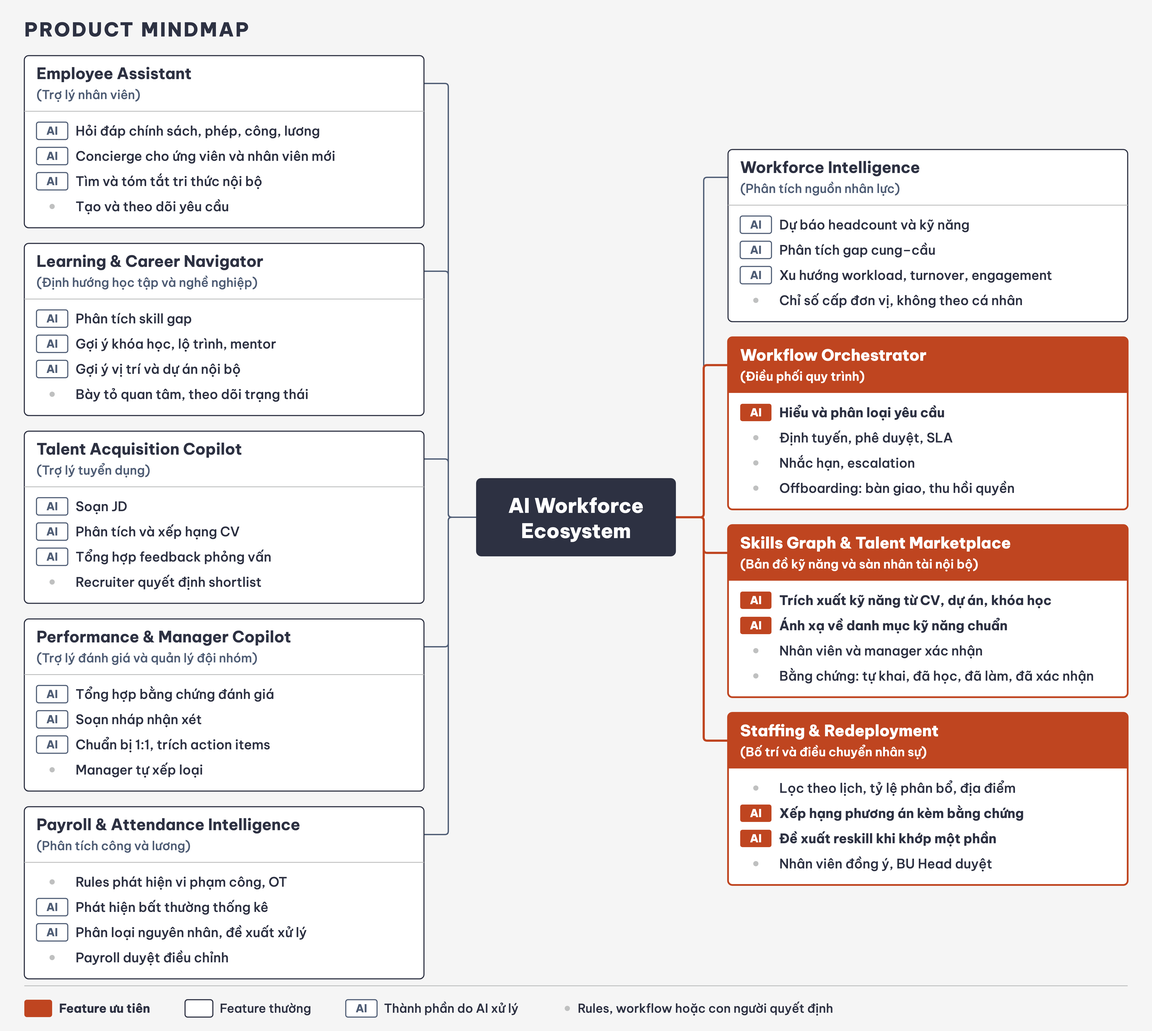
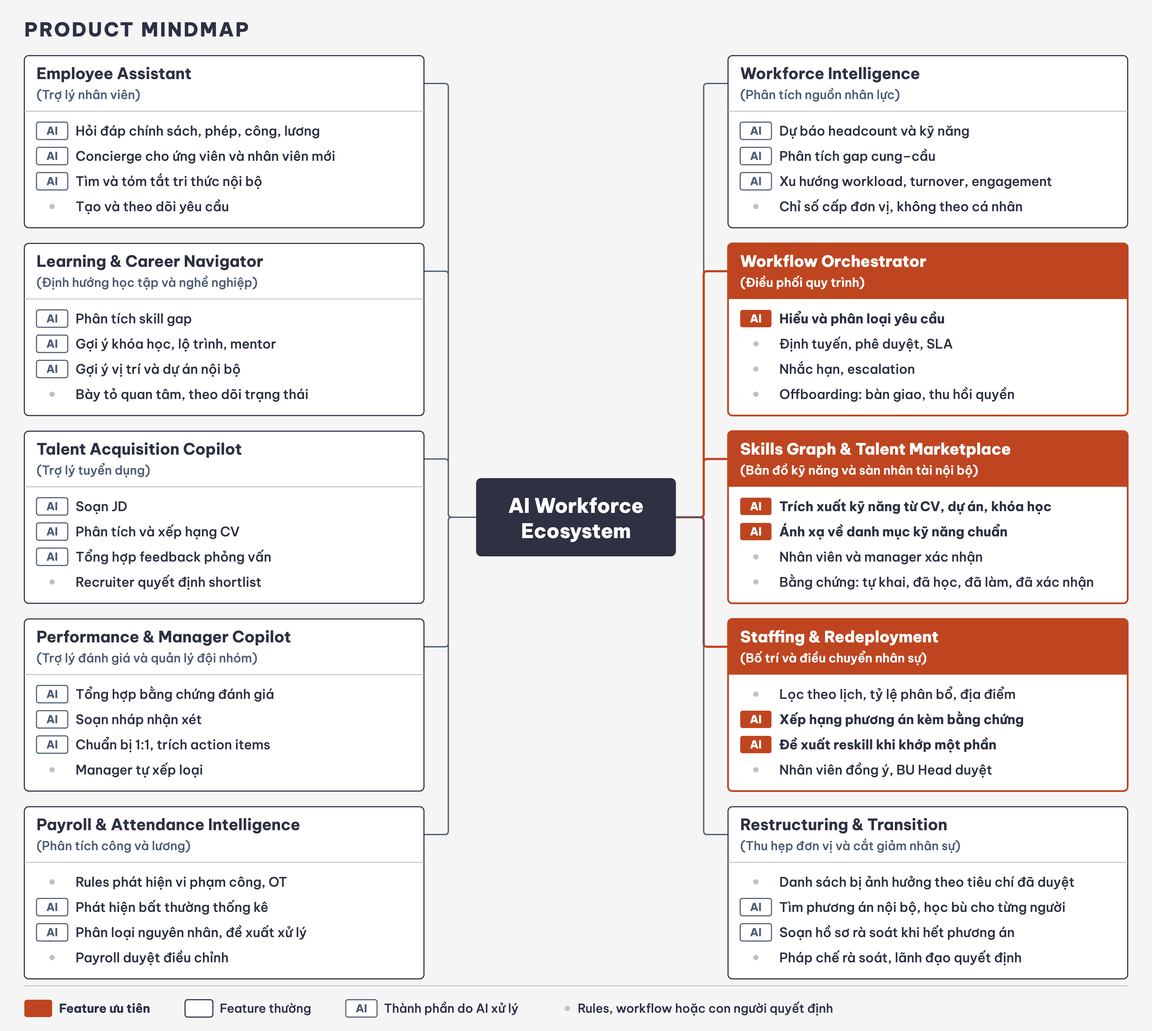
feat: Implement restructuring feature for workforce management
- Added new use case (UC-16) for restructuring and layoffs in README.md.
- Updated app logic to handle employee redeployment and reskilling processes.
- Introduced affected personnel data structure to manage impacted employees.
- Enhanced UI to display restructuring options and statuses.
- Updated model to include restructuring state transitions and validation.
- Added tests for restructuring scenarios to ensure correct workflow.
- Improved styling for new UI elements related to restructuring.

Changed region(s): [[0.6222, 0.0624, 0.9955, 0.9359]]

diff --git a/docs/02-product-mindmap/Product_Mindmap.html b/docs/02-product-mindmap/Product_Mindmap.html
@@ -18,7 +18,7 @@ svg text { font-family: 'Be Vietnam Pro', system-ui, sans-serif; }
 <div class="diagram-container">
 <svg viewBox="0 0 2652 2372" xmlns="http://www.w3.org/2000/svg" role="img" aria-labelledby="product-mindmap-title product-mindmap-desc">
 <title id="product-mindmap-title">Product mindmap: AI Workforce Ecosystem</title>
-<desc id="product-mindmap-desc">Chín feature của AI Workforce Ecosystem cùng các thành phần, trong đó ba feature ưu tiên được tô nổi bật.</desc>
+<desc id="product-mindmap-desc">Mười feature của AI Workforce Ecosystem cùng các thành phần, trong đó ba feature ưu tiên được tô nổi bật.</desc>
 <rect width="2652" height="2372" fill="#f5f5f5"/>
 <text x="56" y="84" font-size="44" font-weight="800" letter-spacing="4" fill="#2d3142">PRODUCT MINDMAP</text>
 <path d="M1096.0,1190.0 H1040.0 Q1032.0,1190.0 1032.0,1182.0 V200.0 Q1032.0,192.0 1024.0,192.0 H976.0" fill="none" stroke="#4f5d75" stroke-width="3"/>
@@ -26,10 +26,11 @@ svg text { font-family: 'Be Vietnam Pro', system-ui, sans-serif; }
 <path d="M1096.0,1190.0 H1040.0 Q1032.0,1190.0 1032.0,1182.0 V1064.0 Q1032.0,1056.0 1024.0,1056.0 H976.0" fill="none" stroke="#4f5d75" stroke-width="3"/>
 <path d="M1096.0,1190.0 H1040.0 Q1032.0,1190.0 1032.0,1198.0 V1480.0 Q1032.0,1488.0 1024.0,1488.0 H976.0" fill="none" stroke="#4f5d75" stroke-width="3"/>
 <path d="M1096.0,1190.0 H1040.0 Q1032.0,1190.0 1032.0,1198.0 V1912.0 Q1032.0,1920.0 1024.0,1920.0 H976.0" fill="none" stroke="#4f5d75" stroke-width="3"/>
-<path d="M1556.0,1190.0 H1612.0 Q1620.0,1190.0 1620.0,1182.0 V416.0 Q1620.0,408.0 1628.0,408.0 H1676.0" fill="none" stroke="#4f5d75" stroke-width="3"/>
-<path d="M1556.0,1190.0 H1612.0 Q1620.0,1190.0 1620.0,1182.0 V848.0 Q1620.0,840.0 1628.0,840.0 H1676.0" fill="none" stroke="#bf4520" stroke-width="5"/>
-<path d="M1556.0,1190.0 H1612.0 Q1620.0,1190.0 1620.0,1198.0 V1264.0 Q1620.0,1272.0 1628.0,1272.0 H1676.0" fill="none" stroke="#bf4520" stroke-width="5"/>
-<path d="M1556.0,1190.0 H1612.0 Q1620.0,1190.0 1620.0,1198.0 V1696.0 Q1620.0,1704.0 1628.0,1704.0 H1676.0" fill="none" stroke="#bf4520" stroke-width="5"/>
+<path d="M1556.0,1190.0 H1612.0 Q1620.0,1190.0 1620.0,1182.0 V200.0 Q1620.0,192.0 1628.0,192.0 H1676.0" fill="none" stroke="#4f5d75" stroke-width="3"/>
+<path d="M1556.0,1190.0 H1612.0 Q1620.0,1190.0 1620.0,1182.0 V632.0 Q1620.0,624.0 1628.0,624.0 H1676.0" fill="none" stroke="#bf4520" stroke-width="5"/>
+<path d="M1556.0,1190.0 H1612.0 Q1620.0,1190.0 1620.0,1182.0 V1064.0 Q1620.0,1056.0 1628.0,1056.0 H1676.0" fill="none" stroke="#bf4520" stroke-width="5"/>
+<path d="M1556.0,1190.0 H1612.0 Q1620.0,1190.0 1620.0,1198.0 V1480.0 Q1620.0,1488.0 1628.0,1488.0 H1676.0" fill="none" stroke="#bf4520" stroke-width="5"/>
+<path d="M1556.0,1190.0 H1612.0 Q1620.0,1190.0 1620.0,1198.0 V1912.0 Q1620.0,1920.0 1628.0,1920.0 H1676.0" fill="none" stroke="#4f5d75" stroke-width="3"/>
 <rect x="56.0" y="128.0" width="920" height="396" rx="10" fill="#ffffff" stroke="#2d3142" stroke-width="2.5"/>
 <line x1="56.0" y1="256.0" x2="976.0" y2="256.0" stroke="#bfc0c0" stroke-width="2"/>
 <text x="84.0" y="182.0" font-size="36" font-weight="700" fill="#2d3142">Employee Assistant</text>
@@ -104,62 +105,76 @@ svg text { font-family: 'Be Vietnam Pro', system-ui, sans-serif; }
 <text x="174.0" y="2156.0" font-size="30" font-weight="500" fill="#2d3142">Phân loại nguyên nhân, đề xuất xử lý</text>
 <circle cx="120.0" cy="2203.0" r="6" fill="#bfc0c0"/>
 <text x="174.0" y="2214.0" font-size="30" font-weight="500" fill="#2d3142">Payroll duyệt điều chỉnh</text>
-<rect x="1676.0" y="344.0" width="920" height="396" rx="10" fill="#ffffff" stroke="#2d3142" stroke-width="2.5"/>
-<line x1="1676.0" y1="472.0" x2="2596.0" y2="472.0" stroke="#bfc0c0" stroke-width="2"/>
-<text x="1704.0" y="398.0" font-size="36" font-weight="700" fill="#2d3142">Workforce Intelligence</text>
-<text x="1704.0" y="444.0" font-size="28" font-weight="500" fill="#4f5d75">(Phân tích nguồn nhân lực)</text>
-<rect x="1704.0" y="497.0" width="72" height="40" rx="5" fill="#ffffff" stroke="#4f5d75" stroke-width="2.5"/>
-<text x="1740.0" y="526.0" text-anchor="middle" font-size="25" font-weight="700" fill="#4f5d75">AI</text>
-<text x="1794.0" y="528.0" font-size="30" font-weight="500" fill="#2d3142">Dự báo headcount và kỹ năng</text>
-<rect x="1704.0" y="555.0" width="72" height="40" rx="5" fill="#ffffff" stroke="#4f5d75" stroke-width="2.5"/>
-<text x="1740.0" y="584.0" text-anchor="middle" font-size="25" font-weight="700" fill="#4f5d75">AI</text>
-<text x="1794.0" y="586.0" font-size="30" font-weight="500" fill="#2d3142">Phân tích gap cung–cầu</text>
-<rect x="1704.0" y="613.0" width="72" height="40" rx="5" fill="#ffffff" stroke="#4f5d75" stroke-width="2.5"/>
-<text x="1740.0" y="642.0" text-anchor="middle" font-size="25" font-weight="700" fill="#4f5d75">AI</text>
-<text x="1794.0" y="644.0" font-size="30" font-weight="500" fill="#2d3142">Xu hướng workload, turnover, engagement</text>
-<circle cx="1740.0" cy="691.0" r="6" fill="#bfc0c0"/>
-<text x="1794.0" y="702.0" font-size="30" font-weight="500" fill="#2d3142">Chỉ số cấp đơn vị, không theo cá nhân</text>
-<rect x="1676.0" y="776.0" width="920" height="396" rx="10" fill="#ffffff" stroke="#bf4520" stroke-width="4"/>
-<path d="M1676.0,904.0 V786.0 Q1676.0,776.0 1686.0,776.0 H2586.0 Q2596.0,776.0 2596.0,786.0 V904.0 Z" fill="#bf4520"/>
-<text x="1704.0" y="830.0" font-size="36" font-weight="800" fill="#ffffff">Workflow Orchestrator</text>
-<text x="1704.0" y="876.0" font-size="28" font-weight="600" fill="#ffffff">(Điều phối quy trình)</text>
-<rect x="1704.0" y="929.0" width="72" height="40" rx="5" fill="#bf4520"/>
-<text x="1740.0" y="958.0" text-anchor="middle" font-size="25" font-weight="800" fill="#ffffff">AI</text>
-<text x="1794.0" y="960.0" font-size="30" font-weight="700" fill="#2d3142">Hiểu và phân loại yêu cầu</text>
-<circle cx="1740.0" cy="1007.0" r="6" fill="#bfc0c0"/>
-<text x="1794.0" y="1018.0" font-size="30" font-weight="500" fill="#2d3142">Định tuyến, phê duyệt, SLA</text>
-<circle cx="1740.0" cy="1065.0" r="6" fill="#bfc0c0"/>
-<text x="1794.0" y="1076.0" font-size="30" font-weight="500" fill="#2d3142">Nhắc hạn, escalation</text>
-<circle cx="1740.0" cy="1123.0" r="6" fill="#bfc0c0"/>
-<text x="1794.0" y="1134.0" font-size="30" font-weight="500" fill="#2d3142">Offboarding: bàn giao, thu hồi quyền</text>
-<rect x="1676.0" y="1208.0" width="920" height="396" rx="10" fill="#ffffff" stroke="#bf4520" stroke-width="4"/>
-<path d="M1676.0,1336.0 V1218.0 Q1676.0,1208.0 1686.0,1208.0 H2586.0 Q2596.0,1208.0 2596.0,1218.0 V1336.0 Z" fill="#bf4520"/>
-<text x="1704.0" y="1262.0" font-size="36" font-weight="800" fill="#ffffff">Skills Graph &amp; Talent Marketplace</text>
-<text x="1704.0" y="1308.0" font-size="28" font-weight="600" fill="#ffffff">(Bản đồ kỹ năng và sàn nhân tài nội bộ)</text>
-<rect x="1704.0" y="1361.0" width="72" height="40" rx="5" fill="#bf4520"/>
-<text x="1740.0" y="1390.0" text-anchor="middle" font-size="25" font-weight="800" fill="#ffffff">AI</text>
-<text x="1794.0" y="1392.0" font-size="30" font-weight="700" fill="#2d3142">Trích xuất kỹ năng từ CV, dự án, khóa học</text>
-<rect x="1704.0" y="1419.0" width="72" height="40" rx="5" fill="#bf4520"/>
-<text x="1740.0" y="1448.0" text-anchor="middle" font-size="25" font-weight="800" fill="#ffffff">AI</text>
-<text x="1794.0" y="1450.0" font-size="30" font-weight="700" fill="#2d3142">Ánh xạ về danh mục kỹ năng chuẩn</text>
-<circle cx="1740.0" cy="1497.0" r="6" fill="#bfc0c0"/>
-<text x="1794.0" y="1508.0" font-size="30" font-weight="500" fill="#2d3142">Nhân viên và manager xác nhận</text>
-<circle cx="1740.0" cy="1555.0" r="6" fill="#bfc0c0"/>
-<text x="1794.0" y="1566.0" font-size="30" font-weight="500" fill="#2d3142">Bằng chứng: tự khai, đã học, đã làm, đã xác nhận</text>
-<rect x="1676.0" y="1640.0" width="920" height="396" rx="10" fill="#ffffff" stroke="#bf4520" stroke-width="4"/>
-<path d="M1676.0,1768.0 V1650.0 Q1676.0,1640.0 1686.0,1640.0 H2586.0 Q2596.0,1640.0 2596.0,1650.0 V1768.0 Z" fill="#bf4520"/>
-<text x="1704.0" y="1694.0" font-size="36" font-weight="800" fill="#ffffff">Staffing &amp; Redeployment</text>
-<text x="1704.0" y="1740.0" font-size="28" font-weight="600" fill="#ffffff">(Bố trí và điều chuyển nhân sự)</text>
-<circle cx="1740.0" cy="1813.0" r="6" fill="#bfc0c0"/>
-<text x="1794.0" y="1824.0" font-size="30" font-weight="500" fill="#2d3142">Lọc theo lịch, tỷ lệ phân bổ, địa điểm</text>
-<rect x="1704.0" y="1851.0" width="72" height="40" rx="5" fill="#bf4520"/>
-<text x="1740.0" y="1880.0" text-anchor="middle" font-size="25" font-weight="800" fill="#ffffff">AI</text>
-<text x="1794.0" y="1882.0" font-size="30" font-weight="700" fill="#2d3142">Xếp hạng phương án kèm bằng chứng</text>
-<rect x="1704.0" y="1909.0" width="72" height="40" rx="5" fill="#bf4520"/>
-<text x="1740.0" y="1938.0" text-anchor="middle" font-size="25" font-weight="800" fill="#ffffff">AI</text>
-<text x="1794.0" y="1940.0" font-size="30" font-weight="700" fill="#2d3142">Đề xuất reskill khi khớp một phần</text>
-<circle cx="1740.0" cy="1987.0" r="6" fill="#bfc0c0"/>
-<text x="1794.0" y="1998.0" font-size="30" font-weight="500" fill="#2d3142">Nhân viên đồng ý, BU Head duyệt</text>
+<rect x="1676.0" y="128.0" width="920" height="396" rx="10" fill="#ffffff" stroke="#2d3142" stroke-width="2.5"/>
+<line x1="1676.0" y1="256.0" x2="2596.0" y2="256.0" stroke="#bfc0c0" stroke-width="2"/>
+<text x="1704.0" y="182.0" font-size="36" font-weight="700" fill="#2d3142">Workforce Intelligence</text>
+<text x="1704.0" y="228.0" font-size="28" font-weight="500" fill="#4f5d75">(Phân tích nguồn nhân lực)</text>
+<rect x="1704.0" y="281.0" width="72" height="40" rx="5" fill="#ffffff" stroke="#4f5d75" stroke-width="2.5"/>
+<text x="1740.0" y="310.0" text-anchor="middle" font-size="25" font-weight="700" fill="#4f5d75">AI</text>
+<text x="1794.0" y="312.0" font-size="30" font-weight="500" fill="#2d3142">Dự báo headcount và kỹ năng</text>
+<rect x="1704.0" y="339.0" width="72" height="40" rx="5" fill="#ffffff" stroke="#4f5d75" stroke-width="2.5"/>
+<text x="1740.0" y="368.0" text-anchor="middle" font-size="25" font-weight="700" fill="#4f5d75">AI</text>
+<text x="1794.0" y="370.0" font-size="30" font-weight="500" fill="#2d3142">Phân tích gap cung–cầu</text>
+<rect x="1704.0" y="397.0" width="72" height="40" rx="5" fill="#ffffff" stroke="#4f5d75" stroke-width="2.5"/>
+<text x="1740.0" y="426.0" text-anchor="middle" font-size="25" font-weight="700" fill="#4f5d75">AI</text>
+<text x="1794.0" y="428.0" font-size="30" font-weight="500" fill="#2d3142">Xu hướng workload, turnover, engagement</text>
+<circle cx="1740.0" cy="475.0" r="6" fill="#bfc0c0"/>
+<text x="1794.0" y="486.0" font-size="30" font-weight="500" fill="#2d3142">Chỉ số cấp đơn vị, không theo cá nhân</text>
+<rect x="1676.0" y="560.0" width="920" height="396" rx="10" fill="#ffffff" stroke="#bf4520" stroke-width="4"/>
+<path d="M1676.0,688.0 V570.0 Q1676.0,560.0 1686.0,560.0 H2586.0 Q2596.0,560.0 2596.0,570.0 V688.0 Z" fill="#bf4520"/>
+<text x="1704.0" y="614.0" font-size="36" font-weight="800" fill="#ffffff">Workflow Orchestrator</text>
+<text x="1704.0" y="660.0" font-size="28" font-weight="600" fill="#ffffff">(Điều phối quy trình)</text>
+<rect x="1704.0" y="713.0" width="72" height="40" rx="5" fill="#bf4520"/>
+<text x="1740.0" y="742.0" text-anchor="middle" font-size="25" font-weight="800" fill="#ffffff">AI</text>
+<text x="1794.0" y="744.0" font-size="30" font-weight="700" fill="#2d3142">Hiểu và phân loại yêu cầu</text>
+<circle cx="1740.0" cy="791.0" r="6" fill="#bfc0c0"/>
+<text x="1794.0" y="802.0" font-size="30" font-weight="500" fill="#2d3142">Định tuyến, phê duyệt, SLA</text>
+<circle cx="1740.0" cy="849.0" r="6" fill="#bfc0c0"/>
+<text x="1794.0" y="860.0" font-size="30" font-weight="500" fill="#2d3142">Nhắc hạn, escalation</text>
+<circle cx="1740.0" cy="907.0" r="6" fill="#bfc0c0"/>
+<text x="1794.0" y="918.0" font-size="30" font-weight="500" fill="#2d3142">Offboarding: bàn giao, thu hồi quyền</text>
+<rect x="1676.0" y="992.0" width="920" height="396" rx="10" fill="#ffffff" stroke="#bf4520" stroke-width="4"/>
+<path d="M1676.0,1120.0 V1002.0 Q1676.0,992.0 1686.0,992.0 H2586.0 Q2596.0,992.0 2596.0,1002.0 V1120.0 Z" fill="#bf4520"/>
+<text x="1704.0" y="1046.0" font-size="36" font-weight="800" fill="#ffffff">Skills Graph &amp; Talent Marketplace</text>
+<text x="1704.0" y="1092.0" font-size="28" font-weight="600" fill="#ffffff">(Bản đồ kỹ năng và sàn nhân tài nội bộ)</text>
+<rect x="1704.0" y="1145.0" width="72" height="40" rx="5" fill="#bf4520"/>
+<text x="1740.0" y="1174.0" text-anchor="middle" font-size="25" font-weight="800" fill="#ffffff">AI</text>
+<text x="1794.0" y="1176.0" font-size="30" font-weight="700" fill="#2d3142">Trích xuất kỹ năng từ CV, dự án, khóa học</text>
+<rect x="1704.0" y="1203.0" width="72" height="40" rx="5" fill="#bf4520"/>
+<text x="1740.0" y="1232.0" text-anchor="middle" font-size="25" font-weight="800" fill="#ffffff">AI</text>
+<text x="1794.0" y="1234.0" font-size="30" font-weight="700" fill="#2d3142">Ánh xạ về danh mục kỹ năng chuẩn</text>
+<circle cx="1740.0" cy="1281.0" r="6" fill="#bfc0c0"/>
+<text x="1794.0" y="1292.0" font-size="30" font-weight="500" fill="#2d3142">Nhân viên và manager xác nhận</text>
+<circle cx="1740.0" cy="1339.0" r="6" fill="#bfc0c0"/>
+<text x="1794.0" y="1350.0" font-size="30" font-weight="500" fill="#2d3142">Bằng chứng: tự khai, đã học, đã làm, đã xác nhận</text>
+<rect x="1676.0" y="1424.0" width="920" height="396" rx="10" fill="#ffffff" stroke="#bf4520" stroke-width="4"/>
+<path d="M1676.0,1552.0 V1434.0 Q1676.0,1424.0 1686.0,1424.0 H2586.0 Q2596.0,1424.0 2596.0,1434.0 V1552.0 Z" fill="#bf4520"/>
+<text x="1704.0" y="1478.0" font-size="36" font-weight="800" fill="#ffffff">Staffing &amp; Redeployment</text>
+<text x="1704.0" y="1524.0" font-size="28" font-weight="600" fill="#ffffff">(Bố trí và điều chuyển nhân sự)</text>
+<circle cx="1740.0" cy="1597.0" r="6" fill="#bfc0c0"/>
+<text x="1794.0" y="1608.0" font-size="30" font-weight="500" fill="#2d3142">Lọc theo lịch, tỷ lệ phân bổ, địa điểm</text>
+<rect x="1704.0" y="1635.0" width="72" height="40" rx="5" fill="#bf4520"/>
+<text x="1740.0" y="1664.0" text-anchor="middle" font-size="25" font-weight="800" fill="#ffffff">AI</text>
+<text x="1794.0" y="1666.0" font-size="30" font-weight="700" fill="#2d3142">Xếp hạng phương án kèm bằng chứng</text>
+<rect x="1704.0" y="1693.0" width="72" height="40" rx="5" fill="#bf4520"/>
+<text x="1740.0" y="1722.0" text-anchor="middle" font-size="25" font-weight="800" fill="#ffffff">AI</text>
+<text x="1794.0" y="1724.0" font-size="30" font-weight="700" fill="#2d3142">Đề xuất reskill khi khớp một phần</text>
+<circle cx="1740.0" cy="1771.0" r="6" fill="#bfc0c0"/>
+<text x="1794.0" y="1782.0" font-size="30" font-weight="500" fill="#2d3142">Nhân viên đồng ý, BU Head duyệt</text>
+<rect x="1676.0" y="1856.0" width="920" height="396" rx="10" fill="#ffffff" stroke="#2d3142" stroke-width="2.5"/>
+<line x1="1676.0" y1="1984.0" x2="2596.0" y2="1984.0" stroke="#bfc0c0" stroke-width="2"/>
+<text x="1704.0" y="1910.0" font-size="36" font-weight="700" fill="#2d3142">Restructuring &amp; Transition</text>
+<text x="1704.0" y="1956.0" font-size="28" font-weight="500" fill="#4f5d75">(Thu hẹp đơn vị và cắt giảm nhân sự)</text>
+<circle cx="1740.0" cy="2029.0" r="6" fill="#bfc0c0"/>
+<text x="1794.0" y="2040.0" font-size="30" font-weight="500" fill="#2d3142">Danh sách bị ảnh hưởng theo tiêu chí đã duyệt</text>
+<rect x="1704.0" y="2067.0" width="72" height="40" rx="5" fill="#ffffff" stroke="#4f5d75" stroke-width="2.5"/>
+<text x="1740.0" y="2096.0" text-anchor="middle" font-size="25" font-weight="700" fill="#4f5d75">AI</text>
+<text x="1794.0" y="2098.0" font-size="30" font-weight="500" fill="#2d3142">Tìm phương án nội bộ, học bù cho từng người</text>
+<rect x="1704.0" y="2125.0" width="72" height="40" rx="5" fill="#ffffff" stroke="#4f5d75" stroke-width="2.5"/>
+<text x="1740.0" y="2154.0" text-anchor="middle" font-size="25" font-weight="700" fill="#4f5d75">AI</text>
+<text x="1794.0" y="2156.0" font-size="30" font-weight="500" fill="#2d3142">Soạn hồ sơ rà soát khi hết phương án</text>
+<circle cx="1740.0" cy="2203.0" r="6" fill="#bfc0c0"/>
+<text x="1794.0" y="2214.0" font-size="30" font-weight="500" fill="#2d3142">Pháp chế rà soát, lãnh đạo quyết định</text>
 <rect x="1096.0" y="1100.0" width="460" height="180" rx="12" fill="#2d3142"/>
 <text x="1326.0" y="1180.0" text-anchor="middle" font-size="46" font-weight="800" fill="#ffffff">AI Workforce</text>
 <text x="1326.0" y="1238.0" text-anchor="middle" font-size="46" font-weight="800" fill="#ffffff">Ecosystem</text>

diff --git a/prototype/styles.css b/prototype/styles.css
@@ -17,3 +17,4 @@ dialog{border:1px solid #e4e8ee;border-radius:16px;padding:0;box-shadow:0 24px 1
 .tour-inline{display:flex;align-items:flex-start;gap:9px;background:#fff6f8;border:1px solid #f5e4e9;border-radius:8px;padding:10px 12px;margin-bottom:16px;font-size:11px;line-height:1.7}
 .tour-target{outline:2px solid var(--red)!important;outline-offset:3px;border-radius:8px;animation:tour-pulse 1.5s ease-in-out infinite}@keyframes tour-pulse{50%{box-shadow:0 0 0 7px #ea002922}}
 @media(max-width:760px){.tour-panel{right:12px;bottom:12px}.flow-strip{margin-top:0}}@media(prefers-reduced-motion:reduce){.tour-target{animation:none}}
+.check-line{display:flex;align-items:center;gap:9px;margin:14px 0;font-size:11px}.check-line input{width:16px;height:16px;accent-color:var(--red)}

diff --git a/docs/03-use-cases/UC_03_Specifications.md b/docs/03-use-cases/UC_03_Specifications.md
@@ -1,6 +1,6 @@
 # Đặc tả use case
 
-Tài liệu này đặc tả 15 use case trong [UC_01_Catalog.md](UC_01_Catalog.md), mỗi feature của [AI_Workforce_Ecosystem.md](../01-overview/AI_Workforce_Ecosystem.md) một use case. Sơ đồ nằm ở [UC_02_Diagrams.md](UC_02_Diagrams.md).
+Tài liệu này đặc tả 16 use case trong [UC_01_Catalog.md](UC_01_Catalog.md): mỗi feature của [AI_Workforce_Ecosystem.md](../01-overview/AI_Workforce_Ecosystem.md) một use case, cộng UC-16 (thu hẹp đơn vị, layoff) được bổ sung sau. Sơ đồ nằm ở [UC_02_Diagrams.md](UC_02_Diagrams.md).
 
 Cách đọc:
 
@@ -12,7 +12,7 @@ Mục lục:
 
 - Nhóm A, Employee AI: [UC-01](#uc-01-tra-cứu-trạng-thái-ứng-tuyển-và-thủ-tục-nhận-việc), [UC-02](#uc-02-tạo-và-theo-dõi-yêu-cầu-nghỉ-phép-qua-hội-thoại), [UC-03](#uc-03-tìm-và-tóm-tắt-tri-thức-nội-bộ), [UC-04](#uc-04-lập-lộ-trình-học-theo-skill-gap), [UC-05](#uc-05-khám-phá-và-bày-tỏ-quan-tâm-tới-cơ-hội-nội-bộ)
 - Nhóm B, HR Management AI: [UC-06](#uc-06-phân-tích-chênh-lệch-cungcầu-nhân-lực-của-đơn-vị), [UC-07](#uc-07-sàng-lọc-và-xếp-hạng-hồ-sơ-ứng-viên-cho-một-vị-trí), [UC-08](#uc-08-tổng-hợp-hồ-sơ-bằng-chứng-cho-kỳ-đánh-giá), [UC-09](#uc-09-phát-hiện-và-xử-lý-bất-thường-côngot-trước-kỳ-chốt-lương), [UC-10](#uc-10-phân-tích-sức-khỏe-tổ-chức-ở-cấp-đơn-vị)
-- Nhóm C, HR Ecosystem AI: [UC-11](#uc-11-điều-phối-một-yêu-cầu-xuyên-phòng-ban), [UC-12](#uc-12-xây-dựng-và-xác-thực-hồ-sơ-kỹ-năng), [UC-13](#uc-13-đề-xuất-phương-án-bố-trí-nhân-sự-cho-một-nhu-cầu-dự-án), [UC-14](#uc-14-chuẩn-bị-buổi-11-với-thành-viên-nhóm), [UC-15](#uc-15-điều-phối-offboarding-và-bàn-giao-tri-thức)
+- Nhóm C, HR Ecosystem AI: [UC-11](#uc-11-điều-phối-một-yêu-cầu-xuyên-phòng-ban), [UC-12](#uc-12-xây-dựng-và-xác-thực-hồ-sơ-kỹ-năng), [UC-13](#uc-13-đề-xuất-phương-án-bố-trí-nhân-sự-cho-một-nhu-cầu-dự-án), [UC-14](#uc-14-chuẩn-bị-buổi-11-với-thành-viên-nhóm), [UC-15](#uc-15-điều-phối-offboarding-và-bàn-giao-tri-thức), [UC-16](#uc-16-xử-lý-nhân-sự-bị-ảnh-hưởng-khi-thu-hẹp-đơn-vị)
 
 ------------------------------------------------------------------------
 
@@ -752,3 +752,61 @@ Mục lục:
 **Điểm con người quyết định:** Line Manager xác nhận bàn giao đạt; HR Ops đóng hồ sơ.
 
 **Chỉ số đo:** tỷ lệ thu hồi quyền đúng ngày; tỷ lệ hạng mục bàn giao được người nhận xác nhận; thời gian hoàn tất offboarding.
+
+------------------------------------------------------------------------
+
+## UC-16. Xử lý nhân sự bị ảnh hưởng khi thu hẹp đơn vị
+
+| Mục | Nội dung |
+|---|---|
+| Feature nguồn | 16. AI Restructuring & Transition Agent (bổ sung, nối feature 13 và 15) |
+| Mục tiêu | Khi một đơn vị hoặc dự án thu hẹp, mỗi người bị ảnh hưởng được tìm phương án nội bộ trước; chỉ cắt giảm khi không còn phương án và quyết định đã qua rà soát |
+| Actor chính | HRBP |
+| Actor phụ | BU Head, CHRO, pháp chế, Line Manager, Employee bị ảnh hưởng, HR Ops |
+| Hệ thống liên quan | HRIS, Project Management, hồ sơ kỹ năng, LMS, workflow engine |
+| Trigger | Quyết định thu hẹp một đơn vị hoặc dự án được cấp có thẩm quyền phê duyệt, kèm số vị trí và ngày hiệu lực |
+| Tiền điều kiện | Có quyết định thu hẹp bằng văn bản; tiêu chí xác định vị trí bị ảnh hưởng đã được pháp chế duyệt; hồ sơ kỹ năng (UC-12) của những người liên quan còn hiệu lực |
+| Hậu điều kiện | Mỗi người bị ảnh hưởng có một kết quả: điều chuyển, học bù để điều chuyển, hoặc quyết định cắt giảm đã được phê duyệt và chuyển sang UC-15 |
+| Bảo đảm tối thiểu | Không ai nhận thông báo cắt giảm khi chưa có rà soát của pháp chế và phê duyệt của CHRO; mọi bước đều được lưu vết |
+
+**Luồng chính**
+
+1. HRBP mở hồ sơ thu hẹp từ quyết định đã duyệt: đơn vị, số vị trí, ngày hiệu lực.
+2. Rules lập danh sách vị trí bị ảnh hưởng theo tiêu chí đã duyệt (theo vị trí và dự án, không theo cá nhân).
+3. Với từng người, hệ thống gọi UC-13 để tìm vị trí nội bộ: rules lọc ràng buộc cứng, AI xếp hạng phương án kèm bằng chứng.
+4. Khi chỉ khớp một phần, AI đề xuất lộ trình học bù (UC-04) và thời gian ước tính.
+5. HRBP và Line Manager trao đổi trực tiếp với từng nhân viên; nhân viên chọn và đồng ý phương án; điều chuyển chạy qua UC-13.
+6. Với người không còn phương án, AI soạn hồ sơ rà soát: phương án đã thử, lý do không khả thi, quyền lợi theo chính sách, các điểm cần pháp chế xem.
+7. HRBP và pháp chế rà soát từng hồ sơ, đồng thời kiểm tra danh sách có lệch bất thường theo nhóm tuổi, giới tính hay không.
+8. BU Head đề xuất; CHRO phê duyệt.
+9. Line Manager và HRBP thông báo trực tiếp cho nhân viên, kèm gói hỗ trợ theo chính sách.
+10. Hệ thống khởi chạy offboarding (UC-15).
+
+**Luồng thay thế và ngoại lệ**
+
+- **3a.** Có vị trí phù hợp ở đơn vị khác nhưng đang chờ duyệt ngân sách: hệ thống giữ hồ sơ ở trạng thái chờ đến hạn N ngày rồi báo HRBP.
+- **5a.** Nhân viên từ chối mọi phương án nội bộ: ghi lý do, chuyển sang bước 6.
+- **5b.** Nhân viên muốn tự tìm cơ hội: hệ thống mở UC-05 với ưu tiên hiển thị cho người thuộc diện bị ảnh hưởng.
+- **7a.** Hồ sơ có cờ bảo vệ (thai sản, nghỉ ốm dài ngày, đang khiếu nại, đại diện người lao động): dừng luồng, pháp chế xử lý theo quy định lao động áp dụng.
+- **7b.** Phát hiện lệch bất thường theo nhóm: trả về bước 2 để xem lại tiêu chí.
+- **8a.** CHRO yêu cầu tìm thêm phương án: trả hồ sơ về bước 3 kèm ghi chú.
+- **10a.** Trong thời gian báo trước xuất hiện vị trí nội bộ phù hợp: HRBP có thể mở lại bước 3 nếu nhân viên đồng ý.
+
+**Quy tắc nghiệp vụ**
+
+- AI không chọn, không chấm điểm và không xếp hạng ai nên bị cắt giảm. AI chỉ tìm phương án bố trí và soạn hồ sơ.
+- Bố trí lại và học bù luôn được xét trước cắt giảm.
+- Không dùng tuổi, giới tính, lương, tình trạng sức khỏe, thai sản, nghỉ ốm làm tiêu chí ở bất kỳ bước nào.
+- Kết quả "không có phương án" ở UC-13 chỉ là dữ liệu đầu vào cho người rà soát, không tự động dẫn tới cắt giảm.
+- Việc có dùng xếp loại hiệu suất làm tiêu chí hay không do HR và pháp chế chốt; đề xuất ban đầu là không dùng.
+- Thông báo cắt giảm do con người thực hiện trực tiếp; hệ thống không gửi thông báo tự động.
+- Thời hạn báo trước, trợ cấp và thủ tục tuân theo quy định lao động áp dụng cho từng pháp nhân.
+
+**Phân vai AI và rules**
+
+- AI: xếp hạng phương án nội bộ, đề xuất học bù, soạn hồ sơ rà soát, tóm tắt tiến độ cho HRBP.
+- Rules/workflow: danh sách vị trí bị ảnh hưởng, cờ bảo vệ, thứ tự bước, phê duyệt, lưu vết.
+
+**Điểm con người quyết định:** nhân viên đồng ý phương án điều chuyển; pháp chế rà soát; BU Head đề xuất; CHRO phê duyệt cắt giảm.
+
+**Chỉ số đo:** tỷ lệ người bị ảnh hưởng được bố trí lại (redeployment rate); thời gian từ quyết định thu hẹp đến khi mỗi người có kết quả; tỷ lệ khiếu nại sau quyết định; tỷ lệ người điều chuyển còn làm việc sau N tháng.

diff --git a/docs/03-use-cases/UC_01_Catalog.md b/docs/03-use-cases/UC_01_Catalog.md
@@ -1,6 +1,6 @@
 # Bảng use case tổng hợp
 
-Tài liệu này liệt kê 15 use case của AI Workforce Ecosystem, mỗi feature trong [AI_Workforce_Ecosystem.md](../01-overview/AI_Workforce_Ecosystem.md) có một use case đại diện. Sơ đồ nằm ở [UC_02_Diagrams.md](UC_02_Diagrams.md), đặc tả chi tiết nằm ở [UC_03_Specifications.md](UC_03_Specifications.md).
+Tài liệu này liệt kê 16 use case của AI Workforce Ecosystem. UC-01 đến UC-15 ứng với 15 feature gốc; UC-16 (thu hẹp đơn vị, layoff) được bổ sung sau để lấp khoảng trống giữa UC-13 và UC-15. Mỗi feature trong [AI_Workforce_Ecosystem.md](../01-overview/AI_Workforce_Ecosystem.md) có một use case đại diện. Sơ đồ nằm ở [UC_02_Diagrams.md](UC_02_Diagrams.md), đặc tả chi tiết nằm ở [UC_03_Specifications.md](UC_03_Specifications.md).
 
 Quy ước dùng trong cả ba tài liệu:
 
@@ -27,6 +27,7 @@ Quy ước dùng trong cả ba tài liệu:
 | UC-13 | Đề xuất phương án bố trí nhân sự cho một nhu cầu dự án | 13. Project Staffing & Redeployment Agent | HRBP | Project Manager, Line Manager, BU Head, Employee | Phương án được duyệt và thực hiện, hoặc kết luận chưa có phương án nội bộ |
 | UC-14 | Chuẩn bị buổi 1:1 với thành viên nhóm | 14. Manager Team Operations Copilot | Line Manager | Employee | Bản chuẩn bị 1:1 và action items được theo dõi |
 | UC-15 | Điều phối offboarding và bàn giao tri thức | 15. Offboarding & Knowledge Continuity Agent | HR Ops | Employee nghỉ việc, Line Manager, IT, Finance | Tri thức được bàn giao, tài sản và quyền truy cập được thu hồi đúng hạn |
+| UC-16 | Xử lý nhân sự bị ảnh hưởng khi thu hẹp đơn vị | 16. Restructuring & Transition Agent (bổ sung) | HRBP | BU Head, CHRO, pháp chế, Line Manager, Employee, HR Ops | Mỗi người bị ảnh hưởng có phương án nội bộ, hoặc có quyết định cắt giảm đã qua rà soát và phê duyệt |
 
 ## 2. Phân vai giữa AI, rules và con người
 
@@ -49,6 +50,7 @@ Bảng này áp dụng nguyên tắc ở mục 9 của tài liệu gốc: AI dù
 | UC-13 | Hồ sơ kỹ năng, PM, HRIS | Xếp hạng phương án, giải thích | Ràng buộc cứng, phê duyệt, cập nhật | Project Manager, nhân viên, BU Head |
 | UC-14 | PM, Attendance, HRIS, lịch | Tóm tắt, gợi ý chủ đề, trích action items | Quyền xem, nhắc hạn | Line Manager |
 | UC-15 | HRIS, IAM, ITSM, Payroll | Lập danh sách bàn giao, soạn khung tài liệu | Checklist, thu hồi quyền, quyết toán | HR Ops; Line Manager |
+| UC-16 | HRIS, PM, hồ sơ kỹ năng, workflow engine | Tìm phương án nội bộ, đề xuất học bù, soạn hồ sơ rà soát | Danh sách bị ảnh hưởng theo tiêu chí đã duyệt, thứ tự bước, lưu vết | BU Head đề xuất; CHRO phê duyệt; pháp chế rà soát |
 
 ## 3. Phụ thuộc, ưu tiên và phần chưa đặc tả
 
@@ -68,6 +70,7 @@ Cột "Ưu tiên" là đề xuất, chưa được chốt. Cột cuối liệt k
 | UC-10 | Dữ liệu tổng hợp nhiều nguồn | Sau khi có nền dữ liệu | Cảnh báo sớm theo ngưỡng; báo cáo toàn tập đoàn cho CHRO |
 | UC-11 | Không có | Pilot | Tạo quy trình mới từ mô tả; theo dõi trạng thái yêu cầu |
 | UC-12 | Danh mục kỹ năng chuẩn | Pilot | Tìm người theo kỹ năng; matching với mentor |
-| UC-13 | UC-12, UC-11, dữ liệu phân bổ dự án | Pilot | Xử lý nhân sự bị ảnh hưởng khi thu hẹp; phát hiện skill gap cấp dự án |
+| UC-13 | UC-12, UC-11, dữ liệu phân bổ dự án | Pilot | Phát hiện skill gap cấp dự án (phần thu hẹp đã tách thành UC-16) |
 | UC-14 | Không có | Sau pilot | Tổng hợp workload cả đội; theo dõi onboarding thành viên mới |
 | UC-15 | UC-11 | Sau pilot | Exit interview; quản lý mạng lưới alumni |
+| UC-16 | UC-13, UC-04, UC-15, UC-11 | Sau khi UC-13 chạy ổn; cần pháp chế duyệt quy trình trước | Tính gói hỗ trợ thôi việc; hỗ trợ tìm việc bên ngoài; truyền thông nội bộ |

diff --git a/docs/README.md b/docs/README.md
@@ -19,7 +19,7 @@ docs/
 
 | Mục tiêu | Ý nghĩa |
 |---|---|
-| Empower Employees | Giúp nhân viên tự giải quyết nhu cầu, thực hiện công việc, tiếp cận tri thức, phát triển kỹ năng và nâng cao năng suất, lộ trình sự nghiệp; giảm thao tác thủ công và phụ thuộc vào HR. |
+| Empower Employees | Giúp nhân viên tự giải quyết nhu cầu, thực hiện công việc, tiếp cận tri thức,tài liệu công ty, phát triển kỹ năng và nâng cao năng suất, lộ trình sự nghiệp; giảm thao tác thủ công và phụ thuộc vào HR. |
 | Augment HR & Management | Hỗ trợ HR, Manager và lãnh đạo quản trị nguồn nhân lực, phân tích dữ liệu, ra quyết định, chuẩn hóa quy trình và giảm tải vận hành |
 | Automate Workflows | Chuẩn hóa và tự động hóa quy trình xuyên phòng ban |
 | Optimize Workforce | Khai thác kỹ năng nội bộ, điều chuyển linh hoạt, giữ chân nhân tài |
@@ -29,7 +29,7 @@ Chi tiết: [AI_Workforce_Ecosystem.md](01-overview/AI_Workforce_Ecosystem.md)
 
 ## 2. Product mindmap
 
-9 feature chính; mỗi nhánh gồm thành phần AI và điểm con người quyết định.
+10 feature chính; mỗi nhánh gồm thành phần AI và điểm con người quyết định.
 
 ![Product mindmap](02-product-mindmap/Product_Mindmap.png)
 
@@ -41,7 +41,7 @@ Chi tiết: [AI_Workforce_Ecosystem.md](01-overview/AI_Workforce_Ecosystem.md)
 
 ## 3. Use case
 
-15 use case, chia 3 nhóm: **A. Nhân viên** (UC-01 đến 05), **B. Quản lý nhân sự** (UC-06 đến 10), **C. Điều phối và kết nối** (UC-11 đến 15). Quản lý trực tiếp cũng là nhân viên nên làm được mọi việc của nhân viên.
+16 use case, chia 3 nhóm: **A. Nhân viên** (UC-01 đến 05), **B. Quản lý nhân sự** (UC-06 đến 10), **C. Điều phối và kết nối** (UC-11 đến 16). Quản lý trực tiếp cũng là nhân viên nên làm được mọi việc của nhân viên.
 
 ```mermaid
 flowchart LR
@@ -52,6 +52,7 @@ flowchart LR
     subgraph SYS["AI Workforce Ecosystem"]
         subgraph GC["C. Điều phối và kết nối"]
             UC15(["UC-15 Nghỉ việc và bàn giao"])
+            UC16(["UC-16 Thu hẹp đơn vị,<br/>cắt giảm nhân sự"])
             UC13(["UC-13 Bố trí nhân sự cho dự án"])
             UC14(["UC-14 Chuẩn bị họp 1-1"])
             UC12(["UC-12 Xây dựng hồ sơ kỹ năng"])
@@ -90,6 +91,7 @@ flowchart LR
 
     UC15 === OPS
     UC09 === OPS
+    UC16 === HRBP
     UC13 === HRBP
     UC10 === HRBP
     UC06 === HRBP
@@ -113,9 +115,10 @@ flowchart LR
 | UC-13 | Bố trí nhân sự cho dự án | HR phụ trách khối | Quản lý dự án, trưởng khối, nhân viên | AI gợi ý người phù hợp → nhân viên đồng ý → trưởng khối duyệt |
 | UC-14 | Chuẩn bị họp 1-1 | Quản lý trực tiếp | Nhân viên | AI tóm tắt tình hình, gợi ý chủ đề → họp → theo dõi việc cần làm |
 | UC-15 | Nghỉ việc và bàn giao | HR vận hành | Nhân viên nghỉ việc, IT, Tài chính | Tạo checklist → bàn giao công việc → thu hồi tài sản, quyền → quyết toán |
+| UC-16 | Thu hẹp đơn vị, cắt giảm nhân sự | HR phụ trách khối | Trưởng khối, Giám đốc nhân sự, pháp chế, nhân viên | Lập danh sách bị ảnh hưởng → AI tìm vị trí nội bộ, học bù → hết phương án thì pháp chế rà soát → Giám đốc nhân sự duyệt → nghỉ việc và bàn giao |
 
 | File | Nội dung |
 |---|---|
-| [UC_01_Catalog.md](03-use-cases/UC_01_Catalog.md) | Bảng 15 use case, actor, phân vai AI/rules/người |
+| [UC_01_Catalog.md](03-use-cases/UC_01_Catalog.md) | Bảng 16 use case, actor, phân vai AI/rules/người |
 | [UC_02_Diagrams.md](03-use-cases/UC_02_Diagrams.md) | Sơ đồ theo từng nhóm và quan hệ include/extend |
 | [UC_03_Specifications.md](03-use-cases/UC_03_Specifications.md) | Đặc tả chi tiết từng use case |

diff --git a/docs/02-product-mindmap/Product_Mindmap_Detail.md b/docs/02-product-mindmap/Product_Mindmap_Detail.md
@@ -136,3 +136,20 @@ Nguồn dữ liệu kỹ năng chung cho học tập, cơ hội nội bộ và s
   - Lộ trình học và thời gian ước tính để đủ điều kiện
 - [Người] Nhân viên đồng ý, BU Head duyệt
   - "Không khớp" không phải căn cứ cho layoff
+
+## Restructuring & Transition (Thu hẹp đơn vị và cắt giảm nhân sự)
+
+Xử lý nhân sự bị ảnh hưởng khi một đơn vị hoặc dự án thu hẹp: bố trí lại trước, cắt giảm là phương án cuối. Feature mới 16, nối feature 13 và 15.
+
+- [Rules] Danh sách bị ảnh hưởng theo tiêu chí đã duyệt
+  - Lập theo vị trí và dự án bị thu hẹp, không theo cá nhân
+  - AI không chọn và không xếp hạng ai bị cắt giảm
+- [AI] Tìm phương án nội bộ, học bù cho từng người
+  - Dùng lại cơ chế xếp hạng của Staffing & Redeployment
+  - Khớp một phần thì kèm lộ trình học và thời gian ước tính
+- [AI] Soạn hồ sơ rà soát khi hết phương án
+  - Ghi phương án đã thử, lý do không khả thi, quyền lợi theo chính sách
+  - Gắn cờ trường hợp cần pháp chế xem kỹ: thai sản, nghỉ ốm dài ngày, đang khiếu nại
+- [Người] Pháp chế rà soát, lãnh đạo quyết định
+  - HRBP và pháp chế rà soát từng hồ sơ; BU Head đề xuất; CHRO phê duyệt
+  - Không dùng tuổi, giới tính, lương, tình trạng sức khỏe làm tiêu chí

diff --git a/docs/01-overview/AI_Workforce_Ecosystem.md b/docs/01-overview/AI_Workforce_Ecosystem.md
@@ -132,6 +132,7 @@ mindmap
       Project Staffing & Redeployment Agent
       Manager Team Operations Copilot
       Offboarding & Knowledge Continuity Agent
+      Restructuring & Transition Agent
 ```
 
 ### Định hướng sản phẩm
@@ -236,6 +237,11 @@ mindmap
   Knowledge Continuity    IT                      nghỉ việc, bàn giao tri
   Agent                                           thức, thu hồi tài sản
                                                   và quyền truy cập
+
+  16\. AI Restructuring & HRBP, BU Head, CHRO,    Khi đơn vị thu hẹp: tìm
+  Transition Agent        pháp chế                phương án nội bộ, học
+  (bổ sung)                                       bù; soạn hồ sơ rà soát
+                                                  khi phải cắt giảm
   -----------------------------------------------------------------------
 
 ------------------------------------------------------------------------

diff --git a/docs/02-product-mindmap/Product_Mindmap.md b/docs/02-product-mindmap/Product_Mindmap.md
@@ -62,3 +62,10 @@
 - **[AI] Xếp hạng phương án kèm bằng chứng**
 - **[AI] Đề xuất reskill khi khớp một phần**
 - Nhân viên đồng ý, BU Head duyệt
+
+## Restructuring & Transition
+
+- Danh sách bị ảnh hưởng theo tiêu chí đã duyệt
+- [AI] Tìm phương án nội bộ, học bù cho từng người
+- [AI] Soạn hồ sơ rà soát khi hết phương án
+- Pháp chế rà soát, lãnh đạo quyết định
